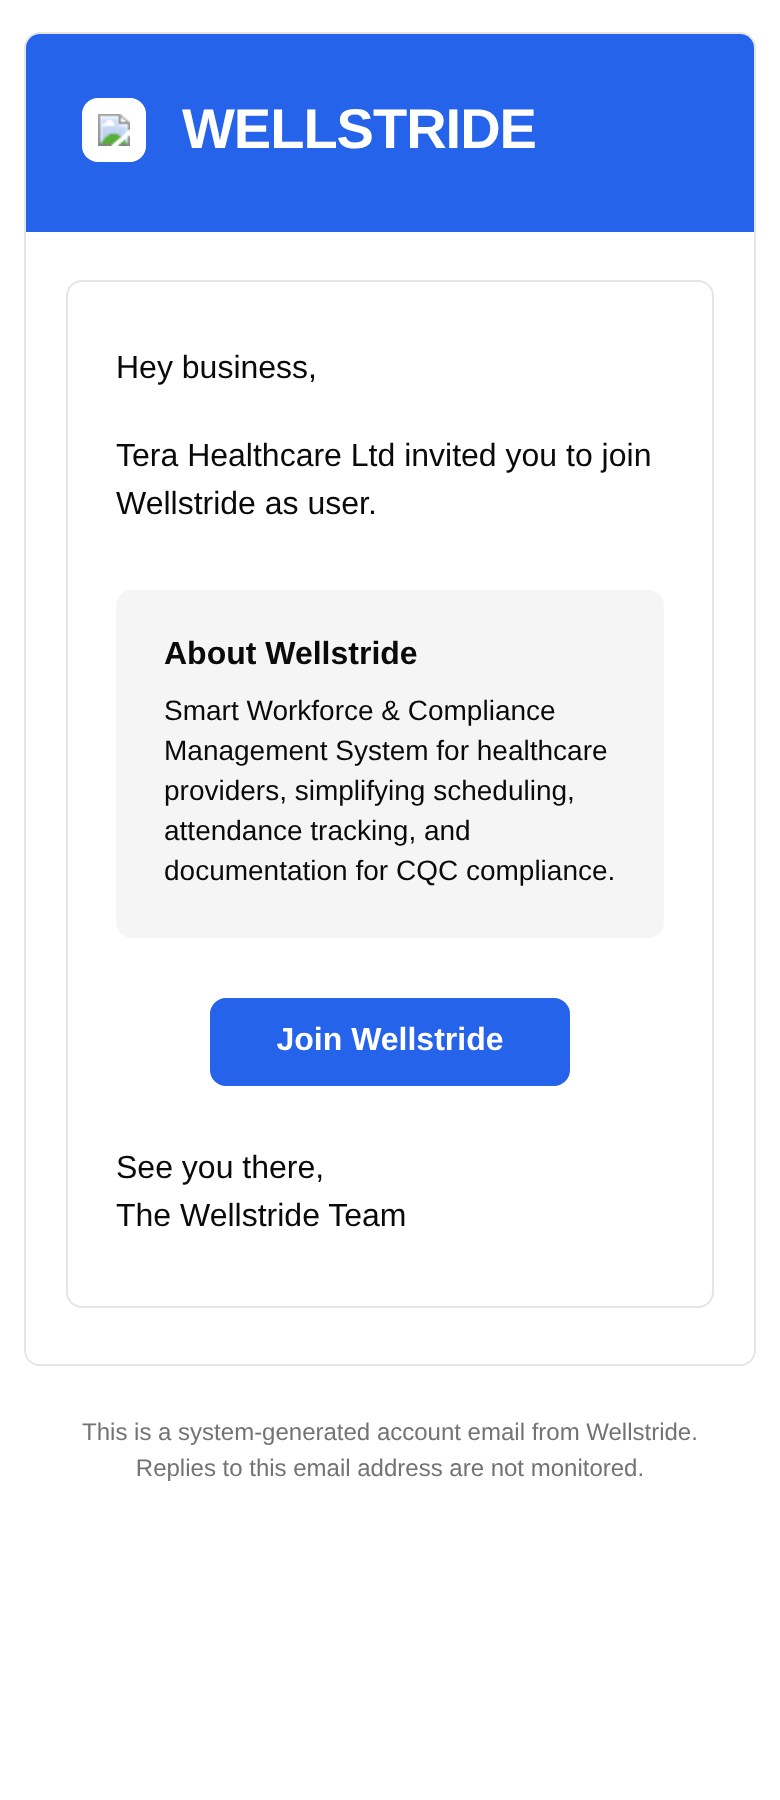
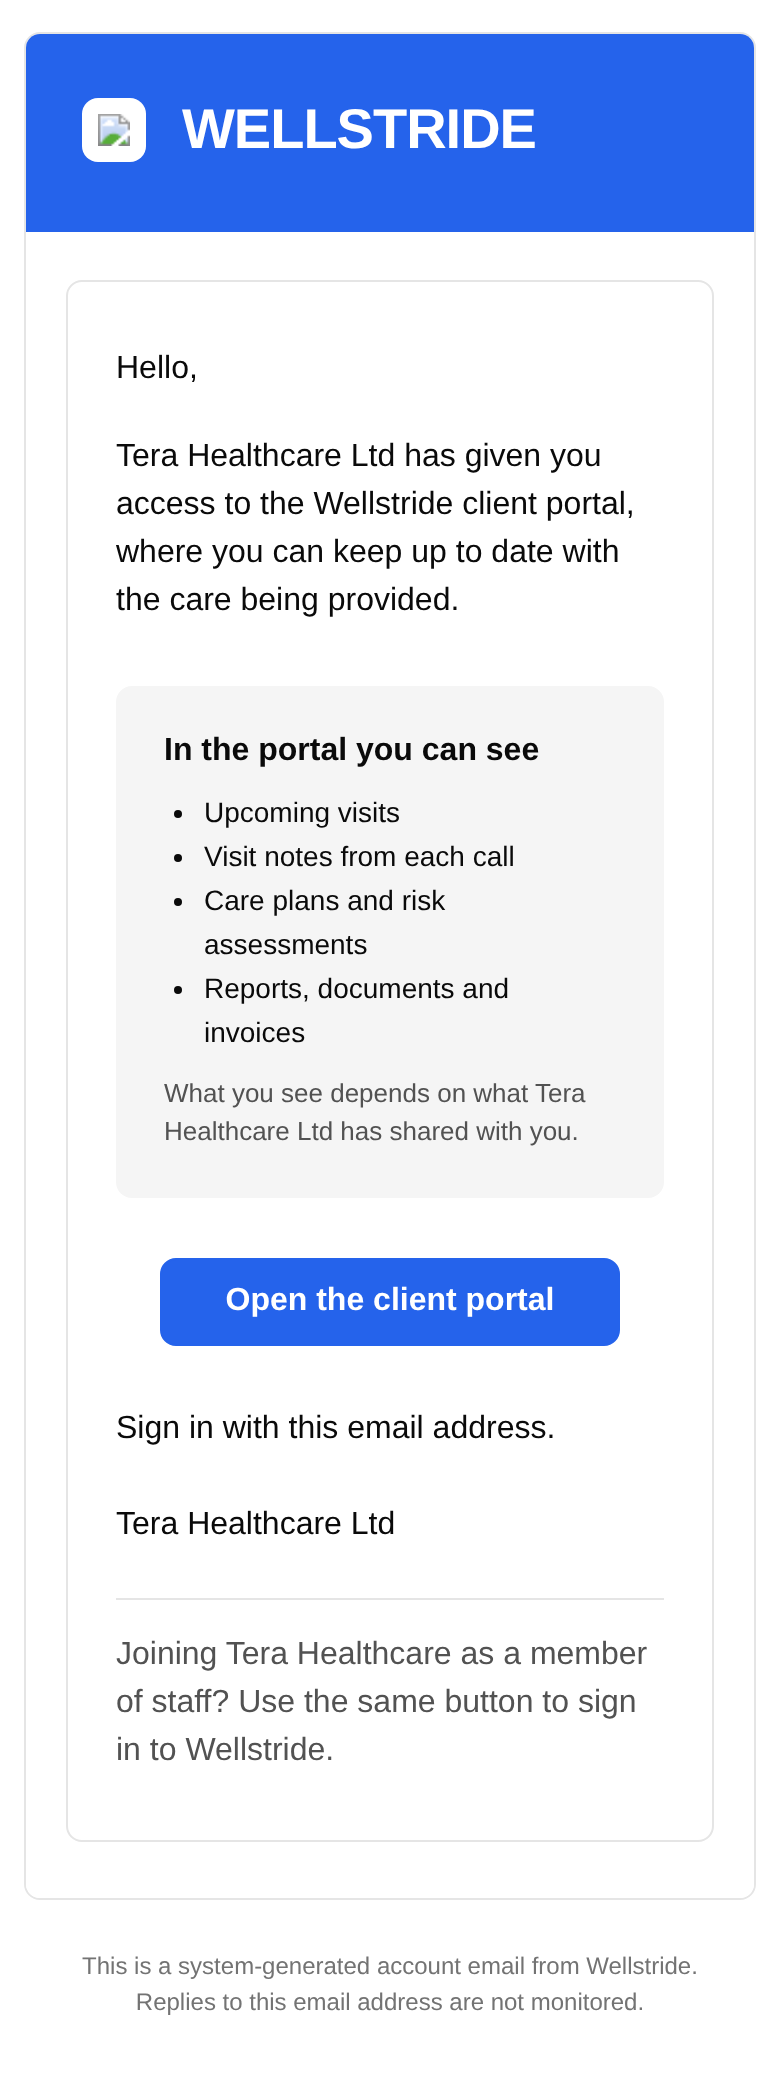
Invite email: client-portal wording with a line for staff
Claude-Session: https://claude.ai/code/session_01TvMeMKUAbduKx43Qebh4ev

diff --git a/CHANGES.md b/CHANGES.md
@@ -1,3 +1,27 @@
+## Invite email rewritten for the client portal (Base44 checkpoint 6afac70eeb68ce9f219a793b)
+
+> Tailor it for the client portal not overall app.
+
+Base44 sends one invitation email for every new account and gives the template
+nothing that says who the recipient is, so new staff (Staff page,
+QuickBooks sync) get the same email as portal representatives. Chosen wording:
+portal-first, with one line for staff.
+
+- Greeting is "Hello," (the old "Hey {{first_name}}" took the first part of the
+  email address, e.g. "Hey business").
+- Body: Tera Healthcare Ltd has given you access to the client portal; a list
+  of what the portal shows (upcoming visits, visit notes, care plans and risk
+  assessments, reports, documents and invoices), noting it depends on what has
+  been shared; button "Open the client portal"; "Sign in with this email
+  address."; signed Tera Healthcare Ltd.
+- Footer line: "Joining Tera Healthcare as a member of staff? Use the same
+  button to sign in to Wellstride."
+- `{{user_role}}` ("as user") removed.
+
+The subject line stays "You're invited to join Wellstride": the platform does not
+take it from the template for this email. Confirmed with the platform's own
+preview, then published.
+
 ## Invite email now comes from "Tera Healthcare Ltd" (Base44 checkpoint 6afac4286a459f356add7da5)
 
 > Instead of my e-mail address use "Tera Healthcare Ltd" and show me the new version.
